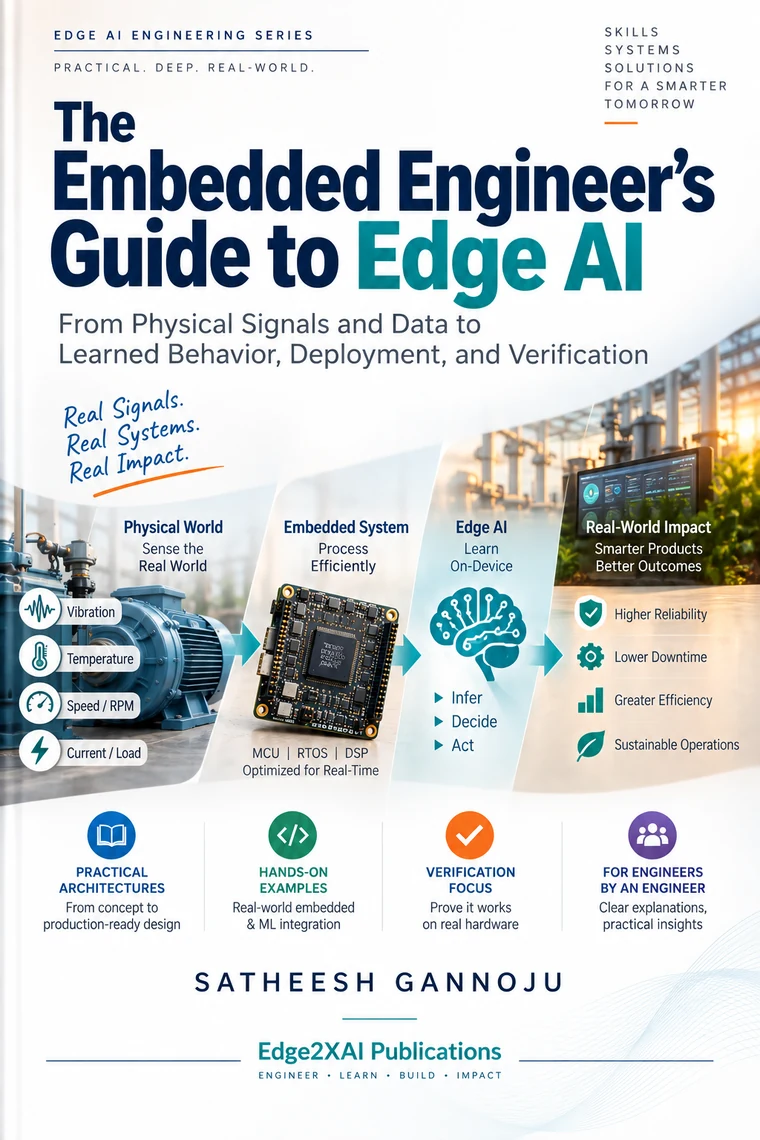
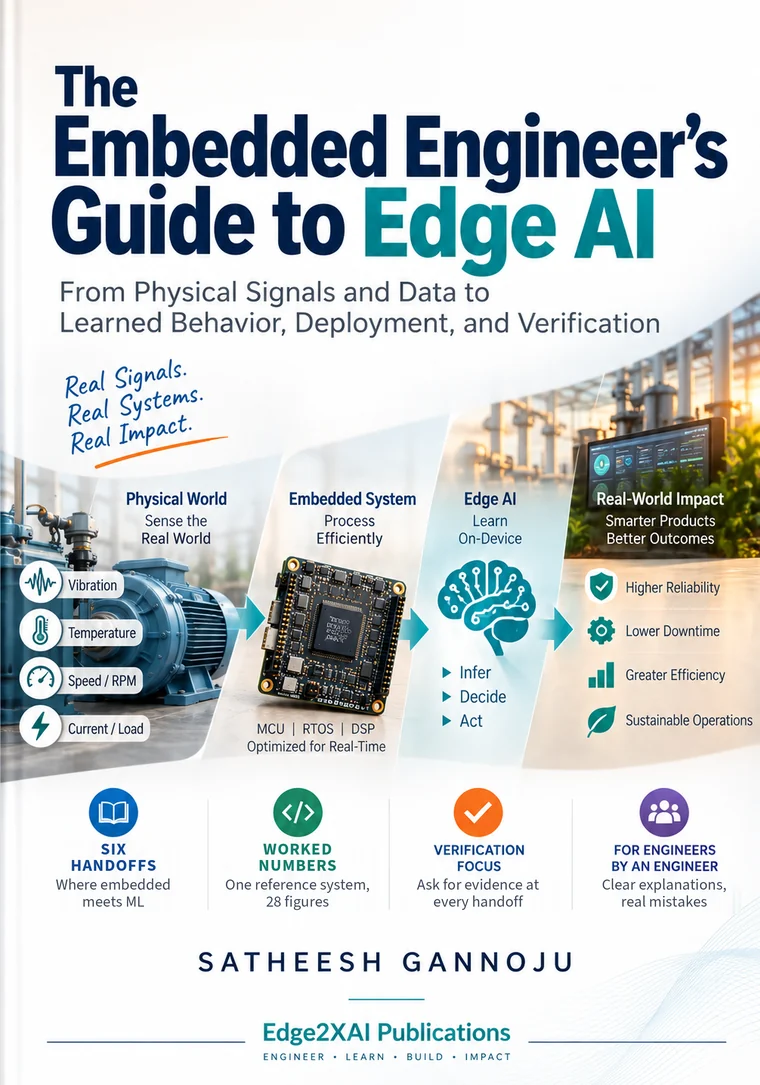
Show the redesigned v5 cover; fix the link-preview image
- covers/book1-cover.webp is now the v5 front cover (Six Handoffs, Worked
  Numbers, Verification Focus tiles; no "Hands-on examples" tile, no series
  header), at its true 7:10 ratio; img height attributes updated to match.
- images/og-guide.jpg (link-preview image) uses the new cover and now says
  "Kindle pre-order · January 31, 2027" instead of "New book · November 4, 2026".

diff --git a/books.html b/books.html
@@ -78,7 +78,7 @@
         <figure class="knowledge-v2-book knowledge-v2-book--one" style="left:50%;transform:translateX(-50%) rotate(-3deg)">
           <img src="covers/book1-cover.webp"
                alt="Embedded Engineers Guide to EdgeAI book cover"
-               width="760" height="1140">
+               width="760" height="1085">
           <figcaption>The Embedded Engineer&rsquo;s Guide to Edge AI</figcaption>
         </figure>
 
@@ -149,7 +149,7 @@
       <div class="knowledge-book-paths">
         <article class="knowledge-book-path">
           <div class="knowledge-book-cover">
-            <img src="covers/book1-cover.webp" alt="Cover of The Embedded Engineer's Guide to Edge AI" width="760" height="1140">
+            <img src="covers/book1-cover.webp" alt="Cover of The Embedded Engineer's Guide to Edge AI" width="760" height="1085">
           </div>
           <div class="knowledge-book-copy">
             <span class="knowledge-status">Kindle pre-order now available &middot; Releasing January 31, 2027</span>

diff --git a/guide.html b/guide.html
@@ -68,7 +68,7 @@
         </div>
         <p class="g-note">By Satheesh Gannoju &middot; 347 pages &middot; Kindle pre-order now &middot; Paperback date to be announced</p>
       </div>
-      <figure class="g-cover"><img src="covers/book1-cover.webp" alt="Cover of The Embedded Engineer's Guide to Edge AI by Satheesh Gannoju" width="760" height="1140"></figure>
+      <figure class="g-cover"><img src="covers/book1-cover.webp" alt="Cover of The Embedded Engineer's Guide to Edge AI by Satheesh Gannoju" width="760" height="1085"></figure>
     </div>
   </section>
 

diff --git a/index.html b/index.html
@@ -227,7 +227,7 @@
       </div>
       <div class="knowledge-grid">
         <div class="knowledge-cover">
-          <img src="covers/book1-cover.webp" alt="Cover of The Embedded Engineer's Guide to Edge AI" width="760" height="1140">
+          <img src="covers/book1-cover.webp" alt="Cover of The Embedded Engineer's Guide to Edge AI" width="760" height="1085">
         </div>
         <div class="knowledge-copy">
           <h3>The Embedded Engineer's Guide to Edge AI</h3>
